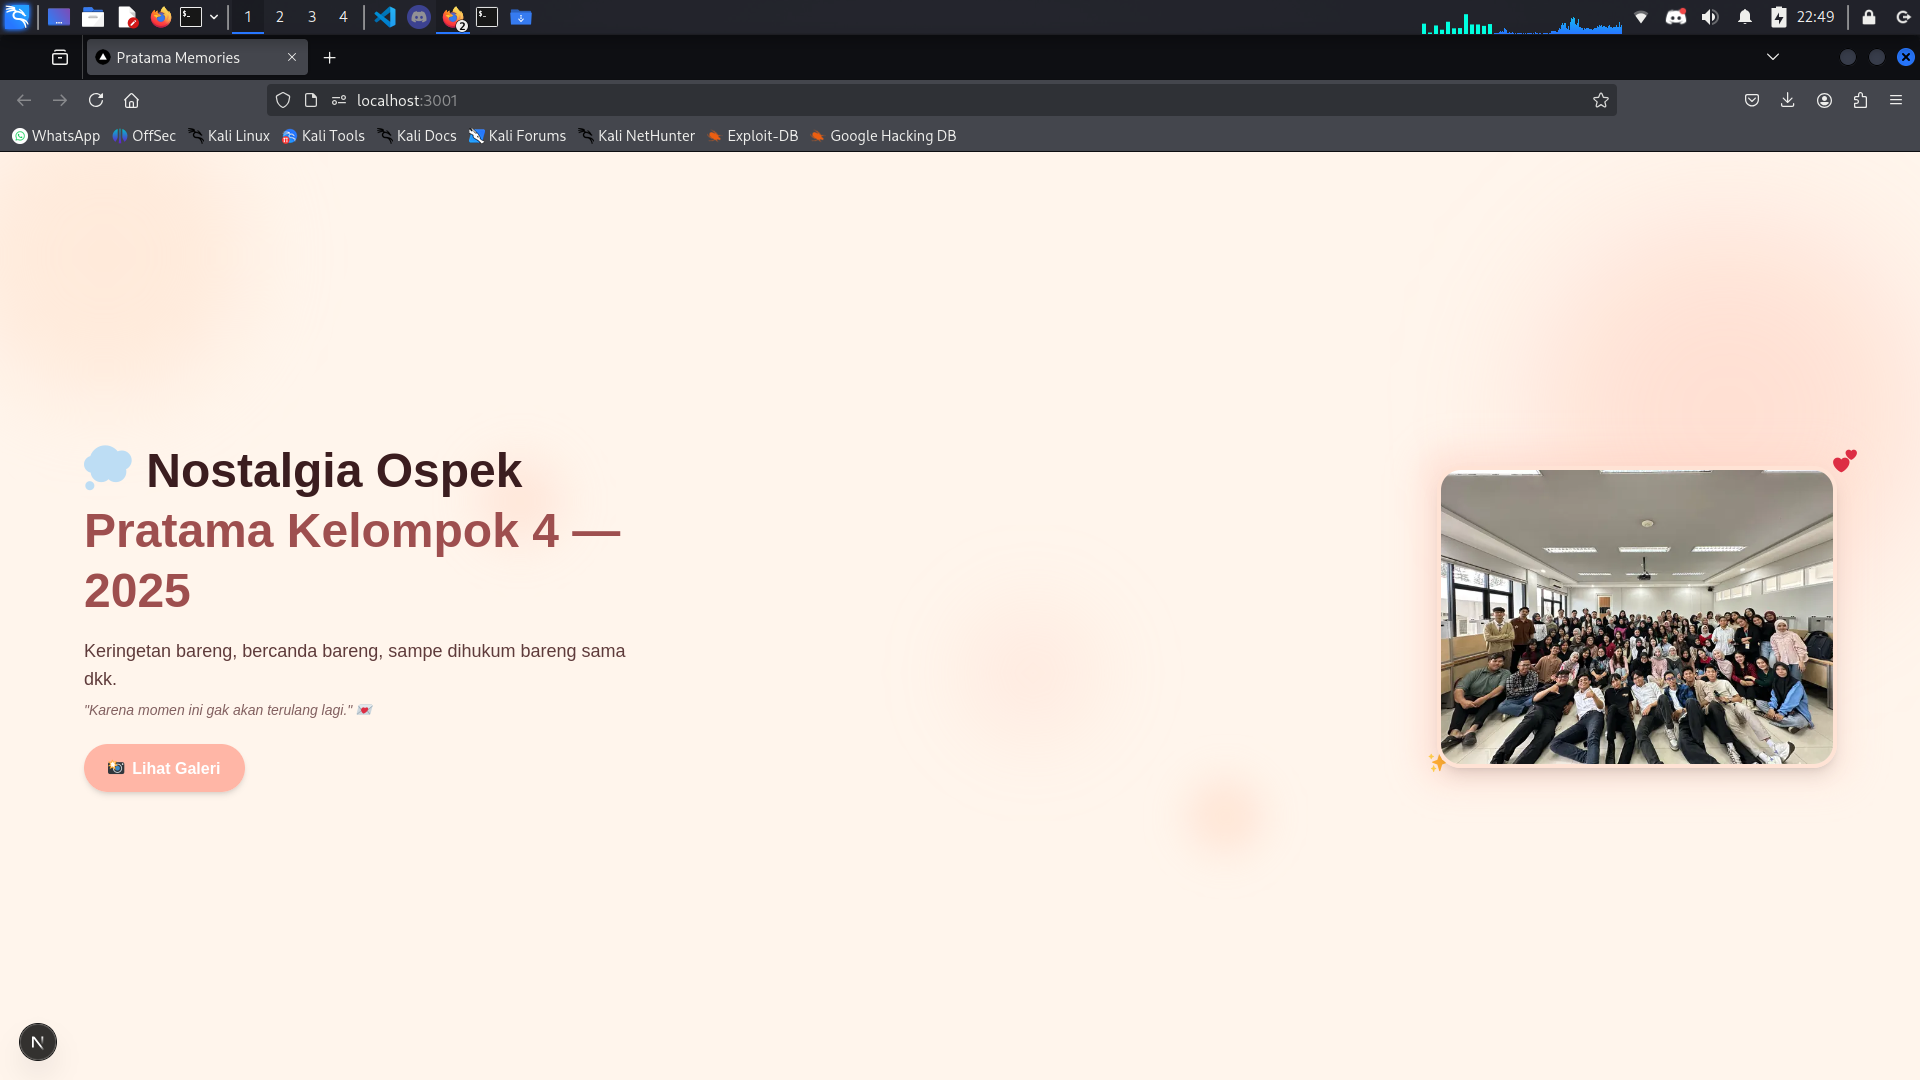
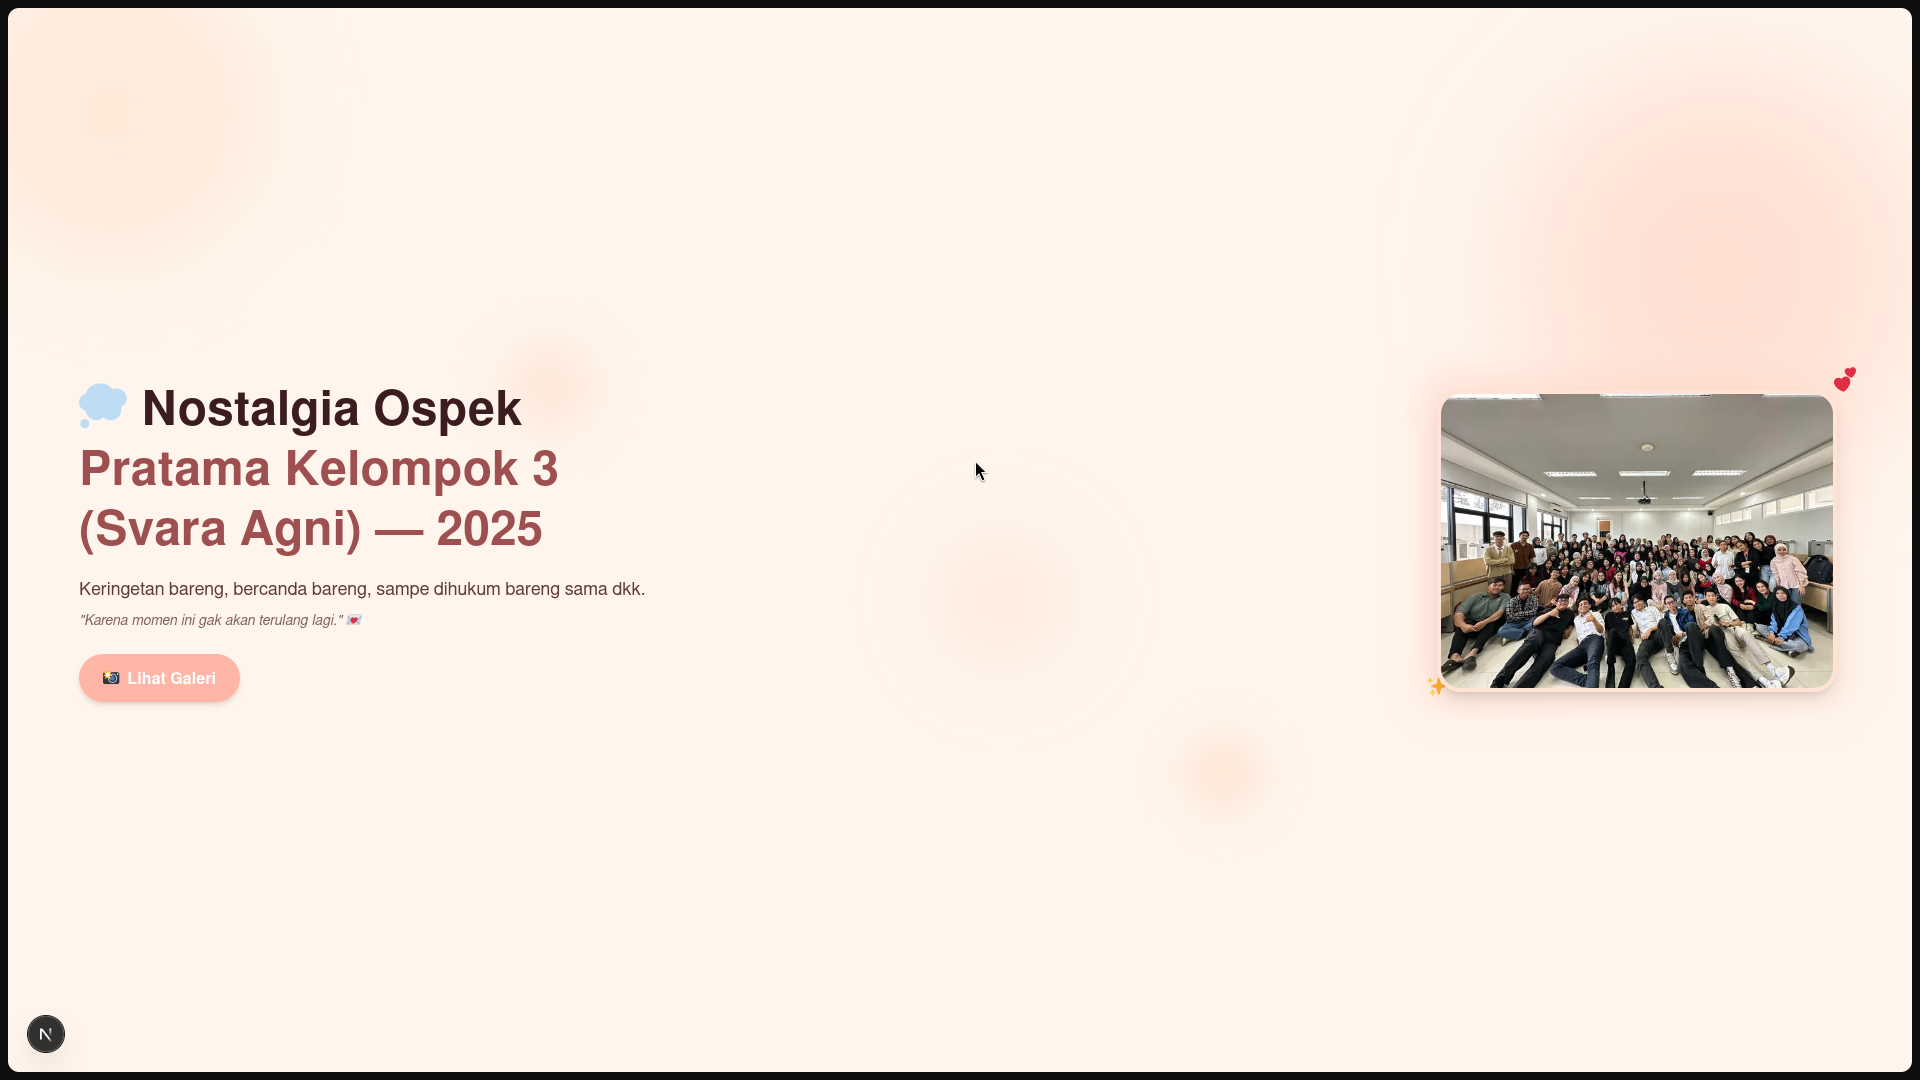
fix typo

Changed region(s): [[0.0, 0.0, 1.0, 1.0]]

diff --git a/src/app/components/sections/projects.-section.jsx b/src/app/components/sections/projects.-section.jsx
@@ -31,7 +31,7 @@ const projects = [
   {
     title: "Pratama Memories",
     description:
-      "A memory site for Group 4 of Ospek Pratama 2025 — with photos, messages, quizzes, and a mentor letter.",
+      "A memory site for Group 3 of Ospek Pratama 2025 — with photos, messages, quizzes, and a mentor letter.",
     image: "/images/projects/pratama.png",
     tech: ["Next.js", "React", "Tailwind CSS", "Framer Motion"],
     github: "https://github.com/ryhndastra/pratama-memories.git",
@@ -44,9 +44,8 @@ export default function ProjectsSection({ isVisible }) {
     <section id="projects" className="px-4 py-20 bg-white lg:px-8 lg:pl-24">
       <div className="max-w-6xl mx-auto">
         <div
-          className={`text-center mb-16 ${
-            isVisible ? "animate-fade-in-up" : "opacity-0"
-          }`}
+          className={`text-center mb-16 ${isVisible ? "animate-fade-in-up" : "opacity-0"
+            }`}
         >
           <h2 className="mb-4 text-4xl font-bold text-gray-900 lg:text-5xl">
             Featured Projects
